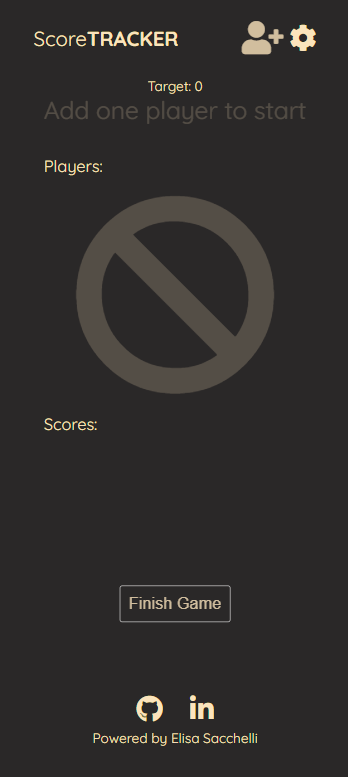
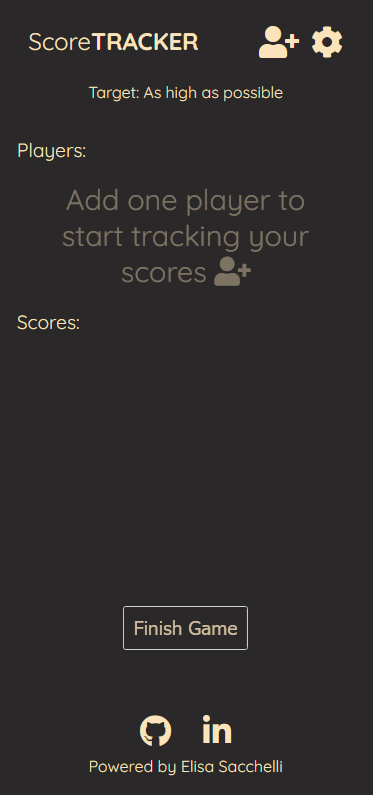
Adjust page style for better ux

diff --git a/assets/css/style.css b/assets/css/style.css
@@ -4,6 +4,7 @@
     /* color scheme */
     --primary-color: hsl(139, 51%, 42%);
     --secondary-color: hsl(341, 98%, 56%);
+    --secondary-color-lighter: hsl(341, 98%, 66%);
     --dark-color: hsl(0, 2%, 16%);
     --neutral-color: hsl(38, 89%, 86%);
 
@@ -65,7 +66,7 @@ body {
 #title {
     font-size: 1.6rem;
     margin: 20px;
-    font-weight: normal;
+    font-weight: lighter;
 }
 .display-inline {
     display: flex;
@@ -221,6 +222,7 @@ button.btn-rectangular:hover,
 }
 
 #logo {
+    margin-top: 30px;
     font-size: 2rem;
 }
 
@@ -229,7 +231,6 @@ button.btn-rectangular:hover,
 }
 
 header {
-    padding: .5em 0;
     width: 100%;
     max-width: 1200px;
     margin: 0 auto;
@@ -267,16 +268,12 @@ header {
 
 .empty {
     display: block;
-    opacity: .2;
-    text-align: center;
-    margin: 0;
-}
-.empty p {
+    opacity: .4;
     font-size: .6em;
-}
-
-.empty i {
-    font-size: 5em;
+    text-align: center;
+    width: 80%;
+    margin: 0 auto;
+    
 }
 
 .display-area {
@@ -515,7 +512,7 @@ font-size: 1.2rem;
 #error-msg,
 #modal-error-msg,
 #new-game-error-msg  {
-    color: var(--secondary-color);
+    color: var(--secondary-color-lighter);
     font-size: 1rem;
     margin-bottom: 1rem;
 }

diff --git a/game.html b/game.html
@@ -33,14 +33,13 @@
         <div id="target-container" aria-label="Target score" role="region" tabindex="0">
             Target: <span id="target"></span>
         </div>
-            <!-- Placeholder for when there are no players added-->
-            <div class="empty">
-                <p>Add one player to start</p>
-            </div>
+            
             <div id="error-msg"></div>
         <p class="title">Players:</p>
             <!-- Placeholder for when there are no players added-->
-            <div class="empty"><i class="fas fa-ban"></i></div>
+            <div class="empty">
+                <p>Add one player to start tracking your scores <i class="fas fa-user-plus"></i></p>
+            </div>
         
         <div id="players" class="display-area" role="region" tabindex="0">
 

diff --git a/index.html b/index.html
@@ -19,11 +19,13 @@
 </head>
 <body class="center-items">
 
-    <div class="content center-items">
+    <header class="center-items">
         <div id="logo"><a href="index.html" aria-label="Logo - click to go to homepage">Score<b>TRACKER</b></a></div>
-
         <h1 id="title">A tool to help you manage your scores for any game</h1>
+    </header>
 
+    <div class="content center-items">
+     
         <div class="actions center-items">
             <button id="new-game" class="btn btn-rectangular background" data-type="openNewGame" aria-label="New Game">New Game</button>
             <button id="resume" class="btn btn-smaller btn-rectangular secondary-color background" data-type="redirect" aria-label="Resume Previous Game">Resume Game</button>
